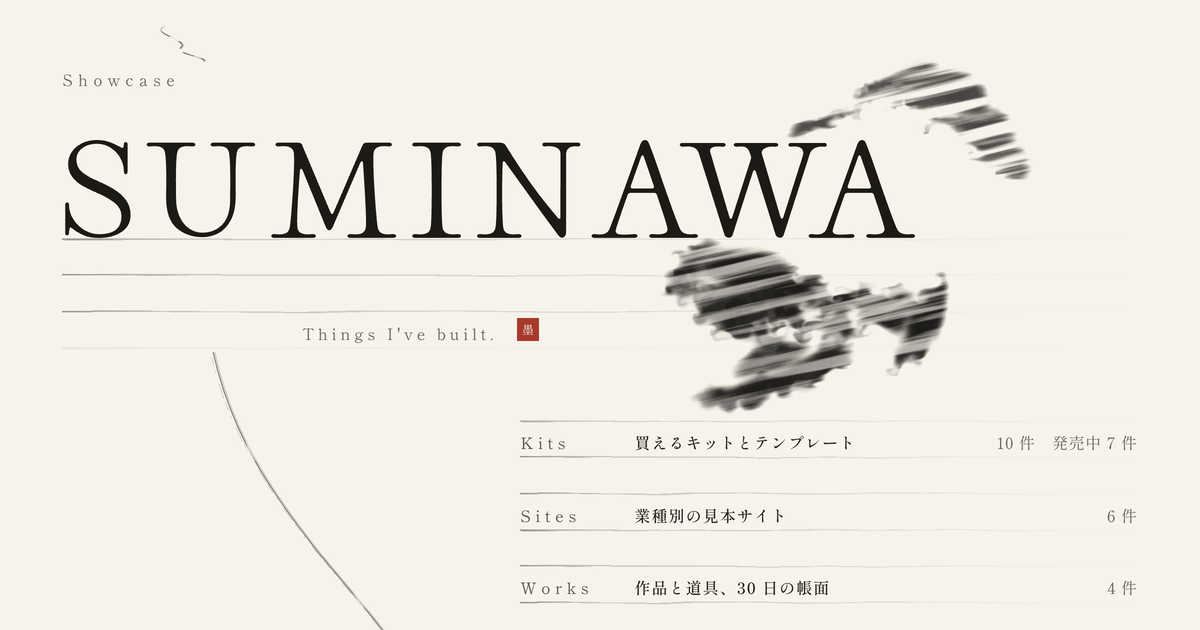
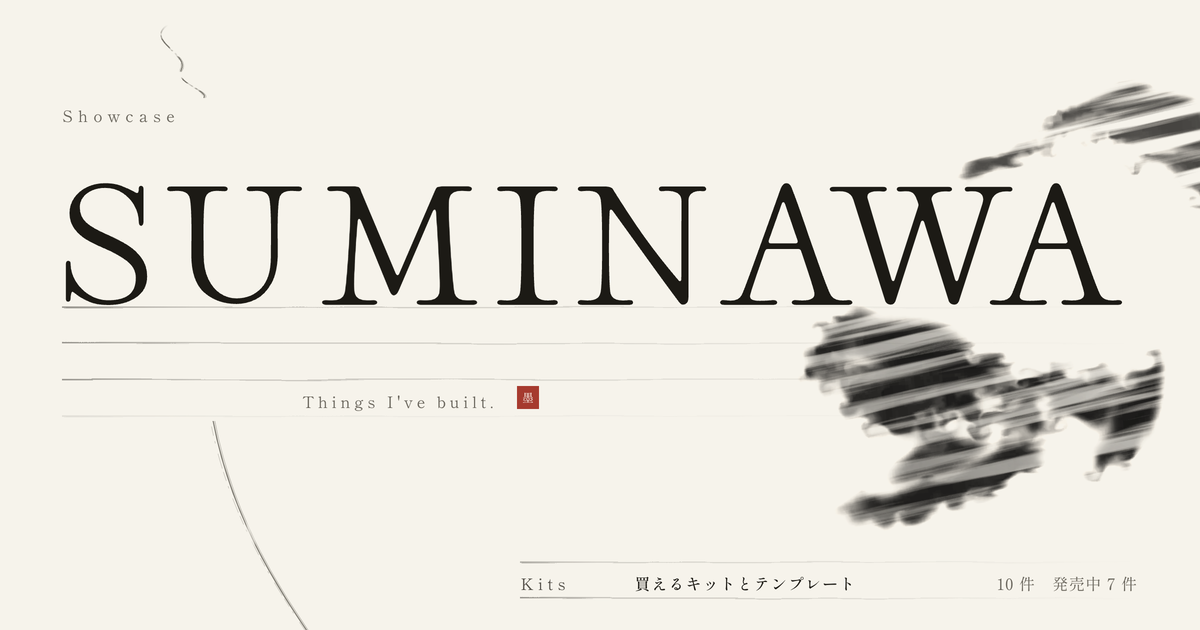
頭を紙の幅いっぱいに組み、縦は前の周の寸法へ戻す
・大字を 14.5vw に（上限なし）。SUMINAWA が紙の左の縁から右の縁まで届く
  （390〜1920 の 6 幅で実測、横スクロールなし）。墨も一筆も大字に結びつけて
  あるので一緒に伸縮し、「WA」が墨の隙間に座る関係は 7 幅すべてで保たれる
・墨の大きさから svh の上限を外した（大字に結びつけた以上、上限があると
  広い紙で関係が崩れる）
・一筆の器を罫 2 本へ戻した（頭の縦は詰めない）
・入口 → いま見てほしいもの に罫 1 本足した（80 → 117px）
・名乗り → 入口 は罫 2 本を基本に、広い紙では墨の下の塊の下まで送る
  （大字の 9 倍の墨は広い紙ほど深く降りてくるので、件数を暗い地に乗せない
  ために。1280 で罫 4 本、1024 以下は 2〜3 本）。7 幅で実測した直線で当てた

全長は 1280 で 1,957px、390 で 1,972px。
字の箱 1,125 件で墨に掛かるのは名乗りの大字だけ。脈に掛かる字 0 件。

diff --git a/src/app/ryoushi.module.css b/src/app/ryoushi.module.css
@@ -127,10 +127,24 @@
      狭い紙では件数が次の罫へ落ちるので 8 本になる。本脈の書き出しの位置が
      これを読む（名乗りの直下から始めるため） */
   --hi-gates-rows: 5;
+  /* 名乗り（英文）と入口 3 行のあいだ。罫 2 本が基本だが、大字を紙幅いっぱいに
+     組んだので、墨（大字の 9 倍）の下の塊が広い紙ほど深く降りてくる ──
+     入口の件数を暗い地に乗せないために、その下端より下まで送る。
+     下端は大字に比例しない（紙の縁・罫が clamp で止まるため）ので、
+     1024〜2560px の 7 幅で「英文の下 → 柱の上の墨の下端」を測り、
+     1.235 × 大字 − 105px の直線で当て、10px の余裕を足して罫の整数倍へ切り上げた */
+  --hi-gates-gap: max(
+    calc(2 * var(--hi-kei-pitch)),
+    round(up, calc(1.235 * var(--hi-mark-size) - 95px), var(--hi-kei-pitch))
+  );
   /* 分類のページの題。作品ページの「大」と同じ寸法で、同じ役（面の名乗り）を持つ */
   --hi-large: clamp(1.75rem, 4.2vw, 3rem); /* 28 → 48px */
   /* 名乗りだけは別に持つ。界線の版面の高さがこの値から決まるため */
-  --hi-mark-size: clamp(2.85rem, 12.6vw, 8.75rem);
+  /* 大字は【紙の幅いっぱい】に組む（2026-09-23）。SUMINAWA の字幅は大字の
+     約 6.18 倍、紙の中身の幅は 100vw − 2 × 5.2vw ＝ 89.6vw なので、
+     14.5vw で左の縁から右の縁まで届く。上限は置かない ── 頭は画面の横幅を
+     使い切る面で、墨も一筆も大字に結びつけてあるので一緒に伸縮する */
+  --hi-mark-size: 14.5vw;
 
   /* ---- 界線 ---- */
   /* 罫の間隔＝本文一行。以下すべての行送り・行間・落款・湿りの寸法がこの整数倍になる */
@@ -326,14 +340,14 @@
    * 390〜2560px の 8 幅で実測した。
    * ＊ 196svh の上限は、横長で背の低い紙のとき筆が名乗りへ降りてくるのを止める。
    */
-  --hi-ink-w: min(calc(9 * var(--hi-mark-size)), 196svh);
+  --hi-ink-w: calc(9 * var(--hi-mark-size));
   width: var(--hi-ink-w);
   /* ＊ 最後の項は幅による補正。大字の字の中心は 0.47 × 大字で近似しているが、
      紙の縁・罫の間隔・柱題の送りは clamp で止まっているので、幅が小さいほど
      近似が下へずれる。390〜1920 の 7 幅で隙間の中心と字の中心を測って当てた（大字の寸法に
      比例させるのは、vw だと大字が頭打ちになる 1111px 以上でずれ続けるため）。 */
   top: calc(
-    var(--hi-pad-top) + 2 * var(--hi-kei-pitch) + clamp(12px, 2.2svh, 26px) +
+    var(--hi-pad-top) + 3 * var(--hi-kei-pitch) + clamp(12px, 2.2svh, 26px) +
       0.538 * var(--hi-mark-size) - 0.322 * var(--hi-ink-w)
   );
   right: calc(
@@ -573,8 +587,8 @@
   /* 書き出しは【名乗りの塊のすぐ下】── 英文の行の直下。
      名乗りの段の下端から数えて 余白 1 行 ＋ 入口（--hi-gates-rows 行）＋ 送り 6 行 */
   top: calc(
-    -1 * var(--hi-shelf-gap, var(--hi-void)) -
-      (3 + var(--hi-gates-rows)) * var(--hi-kei-pitch)
+    -1 * var(--hi-shelf-gap, var(--hi-void)) - var(--hi-kei-pitch) -
+      var(--hi-gates-gap) - var(--hi-gates-rows) * var(--hi-kei-pitch)
   );
 }
 
@@ -611,11 +625,12 @@
   /* 先頭の行は入りの一筆の器。罫 2 本ぶんは必ず残す ── 0 にすると
      一筆の書き出しが紙の外から始まり、紙に入る絵が消える。
      ＊ 一度 7 本（258px）まで広げたが、紙の頭が空きすぎた（「Showcase」が
-     y=294 まで落ちた）。1 本に戻すと y=73 で、初画面に 4 点の 1 件目まで入る。
+     y=294 まで落ちた）。2 本で y=110 ── 頭の縦はこの寸法で固定する
+     （一度 1 本まで詰めたが、頭は縦を詰めない面なので戻した）。
      余った紙はこの行が吸う ── 名乗りの塊も墨も一緒に上がるので、
      大字と墨の隙間の関係は動かない */
   grid-template-rows:
-    minmax(var(--hi-kei-pitch), 1fr)
+    minmax(calc(2 * var(--hi-kei-pitch)), 1fr)
     auto auto auto auto;
   /* 界線の整数倍。ここが半端だと下から数えた罫の位相が狂う。
      ＊ 3 行 → 2 行（2026-09-21）。名乗りの段に入口 3 行が入ったぶん、
@@ -655,7 +670,10 @@
      上から測ると「Showcase」の送り（clamp）が半端を持ち込む。
      ＊ 12 の決め打ちにしていたとき、入口が 8 行になる狭い紙では版面が
      4 行ぶんずれ、名乗りの塊から罫が 1 本も見えなくなっていた */
-  bottom: calc((3 + var(--hi-gates-rows)) * var(--hi-kei-pitch));
+  bottom: calc(
+    var(--hi-kei-pitch) + var(--hi-gates-gap) +
+      var(--hi-gates-rows) * var(--hi-kei-pitch)
+  );
   height: calc(4 * var(--hi-kei-pitch));
   background-position: 0 100%;
   mask-image: linear-gradient(
@@ -787,7 +805,7 @@
    *   塊のあいだが全部 190〜260px で同じになり、紙にリズムが無かった。
    *   墨は大字に結びつけて置いてあるので、ここを詰めても件数には掛からない。
    */
-  margin: calc(2 * var(--hi-kei-pitch)) 0 0;
+  margin: var(--hi-gates-gap) 0 0;
   /* 幅は柱いっぱい。件数は柱の右端で揃う */
   /* 起点は 1 列目 ── 名乗りと同じ左端に戻す。英文（と落款）だけが紙の
      中ほどへ送られ、入口はまた起点から始まる。
@@ -909,7 +927,7 @@
   position: relative;
   z-index: 1;
   grid-column: 6 / 13;
-  --hi-shelf-gap: var(--hi-kei-pitch);
+  --hi-shelf-gap: calc(2 * var(--hi-kei-pitch));
   margin-top: var(--hi-shelf-gap);
 }
 
@@ -930,7 +948,7 @@
  *   「この先に品物がある」ことが折り返しの手前で分かる。
  */
 .mark + .shelf {
-  --hi-shelf-gap: var(--hi-kei-pitch);
+  --hi-shelf-gap: calc(2 * var(--hi-kei-pitch));
 }
 
 /*
